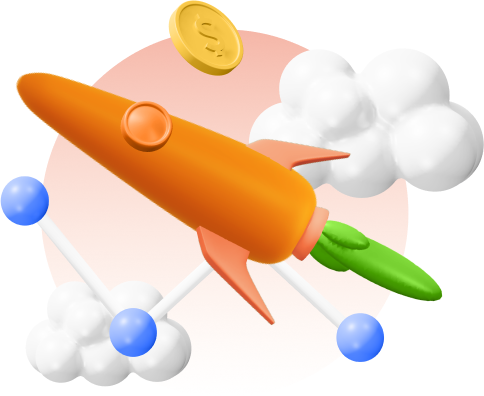
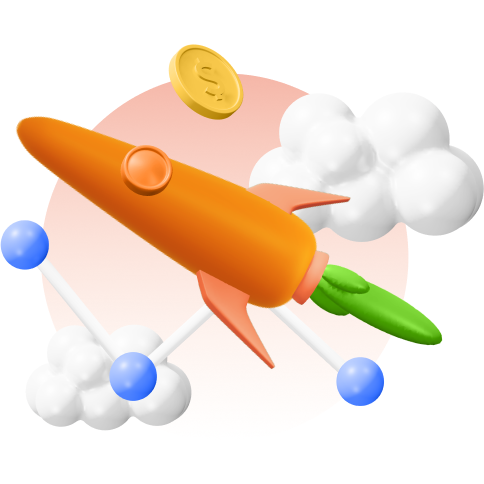
chore: mobile responsiveness fixes

diff --git a/src/pages/home/index.tsx b/src/pages/home/index.tsx
@@ -28,21 +28,20 @@ export function Home(): ReactElement {
   return (
     <Flex flexDirection="column" alignItems="center">
       <Flex
-        justifyContent={['flex-start', 'space-between']}
-        alignItems={['center']}
-        flexDirection={['column-reverse', 'row']}
-        pt={['8px', '60px']}
-        pb={['16px', '90px']}
-        width={['100%', '80%', '60%', '55%', '40%']}
-        px="16px"
+        justifyContent={['flex-start', 'flex-start', 'space-between']}
+        alignItems="center"
+        flexDirection={['column-reverse', 'column-reverse', 'row']}
+        pt={['8px', '8px', '60px']}
+        pb={['16px', '16px', '90px']}
+        width={['100%', '80%', '70%', '55%']}
       >
-        <Flex flexDirection="column" justifyContent="center" pr={['auto', '24px']}>
+        <Flex flexDirection="column" justifyContent="center" pr={['auto', 'auto', '24px']}>
           <Text
             key="title-incentivize"
             fontSize={['44px', '52px']}
             fontWeight="800"
             lineHeight={['50px', '50px']}
-            textAlign={['center', 'initial']}
+            textAlign={['center', 'center', 'initial']}
           >
             Reach your goals.
           </Text>
@@ -52,23 +51,30 @@ export function Home(): ReactElement {
             fontSize={['44px', '52px']}
             fontWeight="800"
             lineHeight={['50px', '64px']}
-            textAlign={['center', 'initial']}
+            textAlign={['center', 'center', 'initial']}
           >
             With a carrot.
           </Text>
           <Text
             key="title-more"
-            mb="40px"
+            mb={['40px', '0px']}
             fontSize={['20px', '22px']}
             fontWeight="800"
             lineHeight="24px"
-            textAlign={['center', 'initial']}
+            textAlign={['center', 'center', 'initial']}
             color={theme.accent}
           >
             Increase TVL, volume, price, engagement and more.
           </Text>
         </Flex>
-        <Image src={heroImage} alt="Hero image" height={['auto', '300px']} width={['80%', 'auto']} mb={['40px']} />
+        <Image
+          src={heroImage}
+          alt="Hero image"
+          height={['auto', 'auto', '200px', '360px']}
+          width={['80%', '70%', '200px', '360px']}
+          mb={['40px', '40px', '0px']}
+          minWidth="auto"
+        />
       </Flex>
       <FeaturedCampaignsContainer width="100%" mb="60px" py="60px" flexDirection="column" alignItems="center">
         <Text fontSize="28px" fontWeight="700" mb="28px">
@@ -101,69 +107,102 @@ export function Home(): ReactElement {
               ))}
         </Flex>
       </FeaturedCampaignsContainer>
-      <Flex width={['100%', '80%', '60%', '60%', '40%']} flexDirection="column" alignItems="center">
-        <Flex width="80%" mb="80px" flexDirection={['column', 'row']} justifyContent="stretch" alignItems="center">
+      <Flex width={['100%', '80%', '70%', '55%']} flexDirection="column" alignItems="center">
+        <Flex
+          alignSelf="flex-start"
+          width="80%"
+          mb="80px"
+          flexDirection={['column', 'column', 'row']}
+          justifyContent="stretch"
+          alignItems="center"
+        >
           <Image
             src={measureImage}
             height="200px"
-            mr={['0px', '40px']}
-            mb={['16px', '0px']}
+            mr={['0px', '0px', '32px']}
+            mb={['16px', '16px', '0px']}
             width="auto"
             minWidth="auto"
           />
           <Flex flexDirection="column">
-            <Text color={theme.accent} fontSize="28px" fontWeight="600" mb="12px">
+            <Text
+              color={theme.accent}
+              fontSize="28px"
+              fontWeight="600"
+              mb="12px"
+              textAlign={['center', 'center', 'initial']}
+            >
               Measure what matters
             </Text>
-            <Box>
+            <Text textAlign={['center', 'center', 'initial']}>
               With Carrot you can define specific goals and targets based on what <strong>your</strong> project really
               needs. Coordinate your community to reach common goals leveraging strong cryptoeconomic incentives.
-            </Box>
+            </Text>
           </Flex>
         </Flex>
         <Flex
-          flexDirection={['column-reverse', 'row']}
+          alignSelf="flex-end"
+          flexDirection={['column-reverse', 'column-reverse', 'row']}
           width="80%"
           mb="80px"
           justifyContent="stretch"
           alignItems="center"
         >
           <Flex flexDirection="column">
-            <Text color={theme.accent} fontSize="28px" fontWeight="600" mb="12px">
+            <Text
+              color={theme.accent}
+              fontSize="28px"
+              fontWeight="600"
+              mb="12px"
+              textAlign={['center', 'center', 'initial']}
+            >
               Incentivize your community
             </Text>
-            <Box>
+            <Text textAlign={['center', 'center', 'initial']}>
               Promote positive feedback in your community by rewarding users when important milestones and goals are
               reached through a collective effort. Just come up with a goal that fits your project and let Carrot do the
               rest.
-            </Box>
+            </Text>
           </Flex>
           <Image
             src={incentivizeImage}
             height="200px"
-            ml={['0px', '40px']}
-            mb={['16px', '0px']}
+            ml={['0px', '0px', '12px']}
+            mb={['16px', '16px', '0px']}
             width="auto"
             minWidth="auto"
           />
         </Flex>
-        <Flex flexDirection={['column', 'row']} width="80%" mb="120px" justifyContent="stretch" alignItems="center">
+        <Flex
+          alignSelf="flex-end"
+          flexDirection={['column', 'column', 'row']}
+          width="80%"
+          mb="120px"
+          justifyContent="stretch"
+          alignItems="center"
+        >
           <Image
             src={rewardImage}
             height="200px"
-            mr={['0px', '40px']}
-            mb={['16px', '0px']}
+            mr={['0px', '0px', '32px']}
+            mb={['16px', '16px', '0px']}
             width="auto"
             minWidth="auto"
           />
           <Flex flexDirection="column">
-            <Text color={theme.accent} fontSize="28px" fontWeight="600" mb="12px">
+            <Text
+              color={theme.accent}
+              fontSize="28px"
+              fontWeight="600"
+              mb="12px"
+              textAlign={['center', 'center', 'initial']}
+            >
               Reward the community
             </Text>
-            <Box>
+            <Text textAlign={['center', 'center', 'initial']}>
               Through the power of KPI tokens, anyone effectively contributing to a goal can receive a reward directly
               proportional to their impact. Get real value in exchange for real value.
-            </Box>
+            </Text>
           </Flex>
         </Flex>
       </Flex>

diff --git a/src/components/popover/index.tsx b/src/components/popover/index.tsx
@@ -1,4 +1,4 @@
-import React, { useRef } from 'react'
+import React, { cloneElement, useRef } from 'react'
 import { usePopper } from 'react-popper'
 import styled from 'styled-components'
 import { Card } from '../card'
@@ -13,7 +13,7 @@ export interface PopoverProps {
   content: React.ReactNode
   show: boolean
   onHide: () => void
-  children: React.ReactNode
+  children: any
   className?: string
   offsetX?: number
   offsetY?: number
@@ -36,7 +36,7 @@ export function Popover({ content, show, onHide, children }: PopoverProps) {
 
   return (
     <>
-      <div ref={referenceRef}>{children}</div>
+      {cloneElement(children, { ref: referenceRef, style: { cursor: 'pointer' } })}
       <div ref={popperRef} {...attributes.popper} style={styles.popper}>
         {transition(
           (transitionStyles, item) =>

diff --git a/src/components/header/index.tsx b/src/components/header/index.tsx
@@ -97,7 +97,7 @@ export const Header = (): ReactElement => {
     <>
       <WalletModal open={walletModalOpen} onDismiss={handleWalletModalClose} />
       <FlexContainer width="100%" height="70px" justifyContent="center" alignItems="center" px={['16px', '24px']}>
-        <Flex width={['100%', '80%', '60%', '60%', '40%']} justifyContent="space-between" alignItems="center">
+        <Flex width={['100%', '80%', '70%', '55%']} justifyContent="space-between" alignItems="center">
           <Flex alignItems="center">
             <Box>
               <UndecoratedInternalLink to="/">

diff --git a/src/pages/app/index.tsx b/src/pages/app/index.tsx
@@ -43,7 +43,7 @@ export function App() {
               </SkeletonTheme>
             </Box>
           </Flex>
-          <Box width={['100%', '80%', '60%', '60%', '40%']}>
+          <Box width={['100%', '80%', '70%', '55%']}>
             <Footer />
           </Box>
         </Flex>
